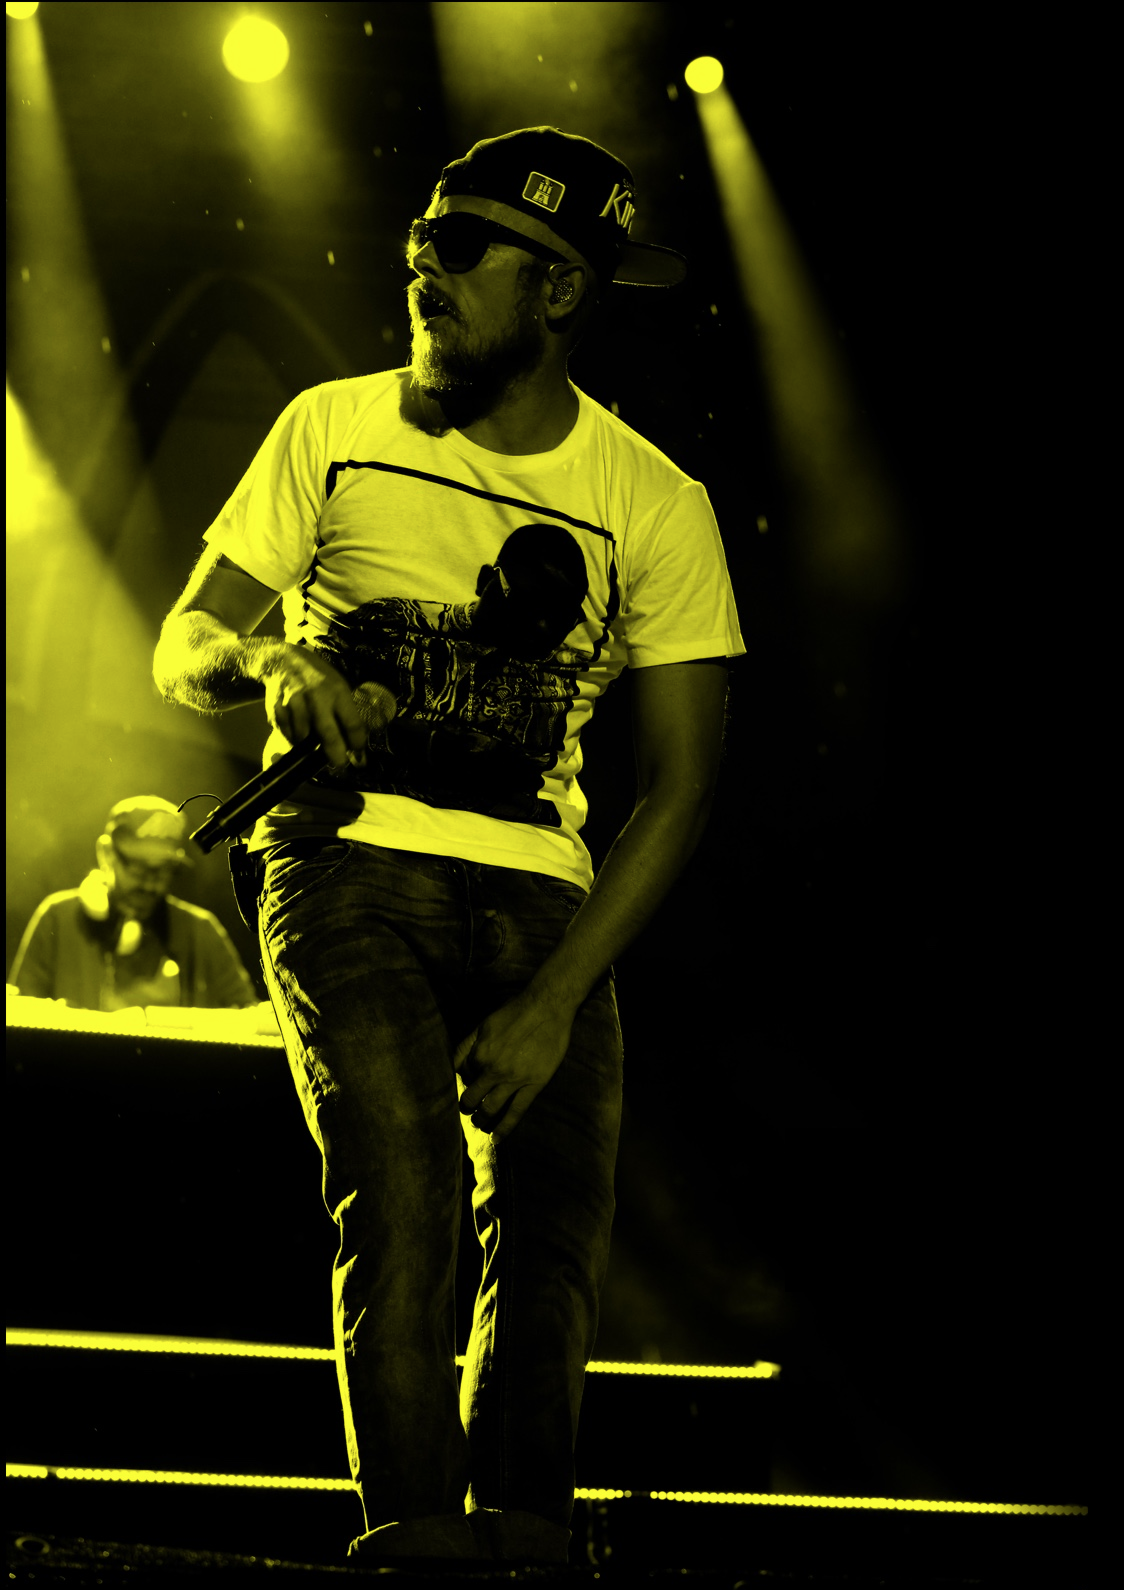
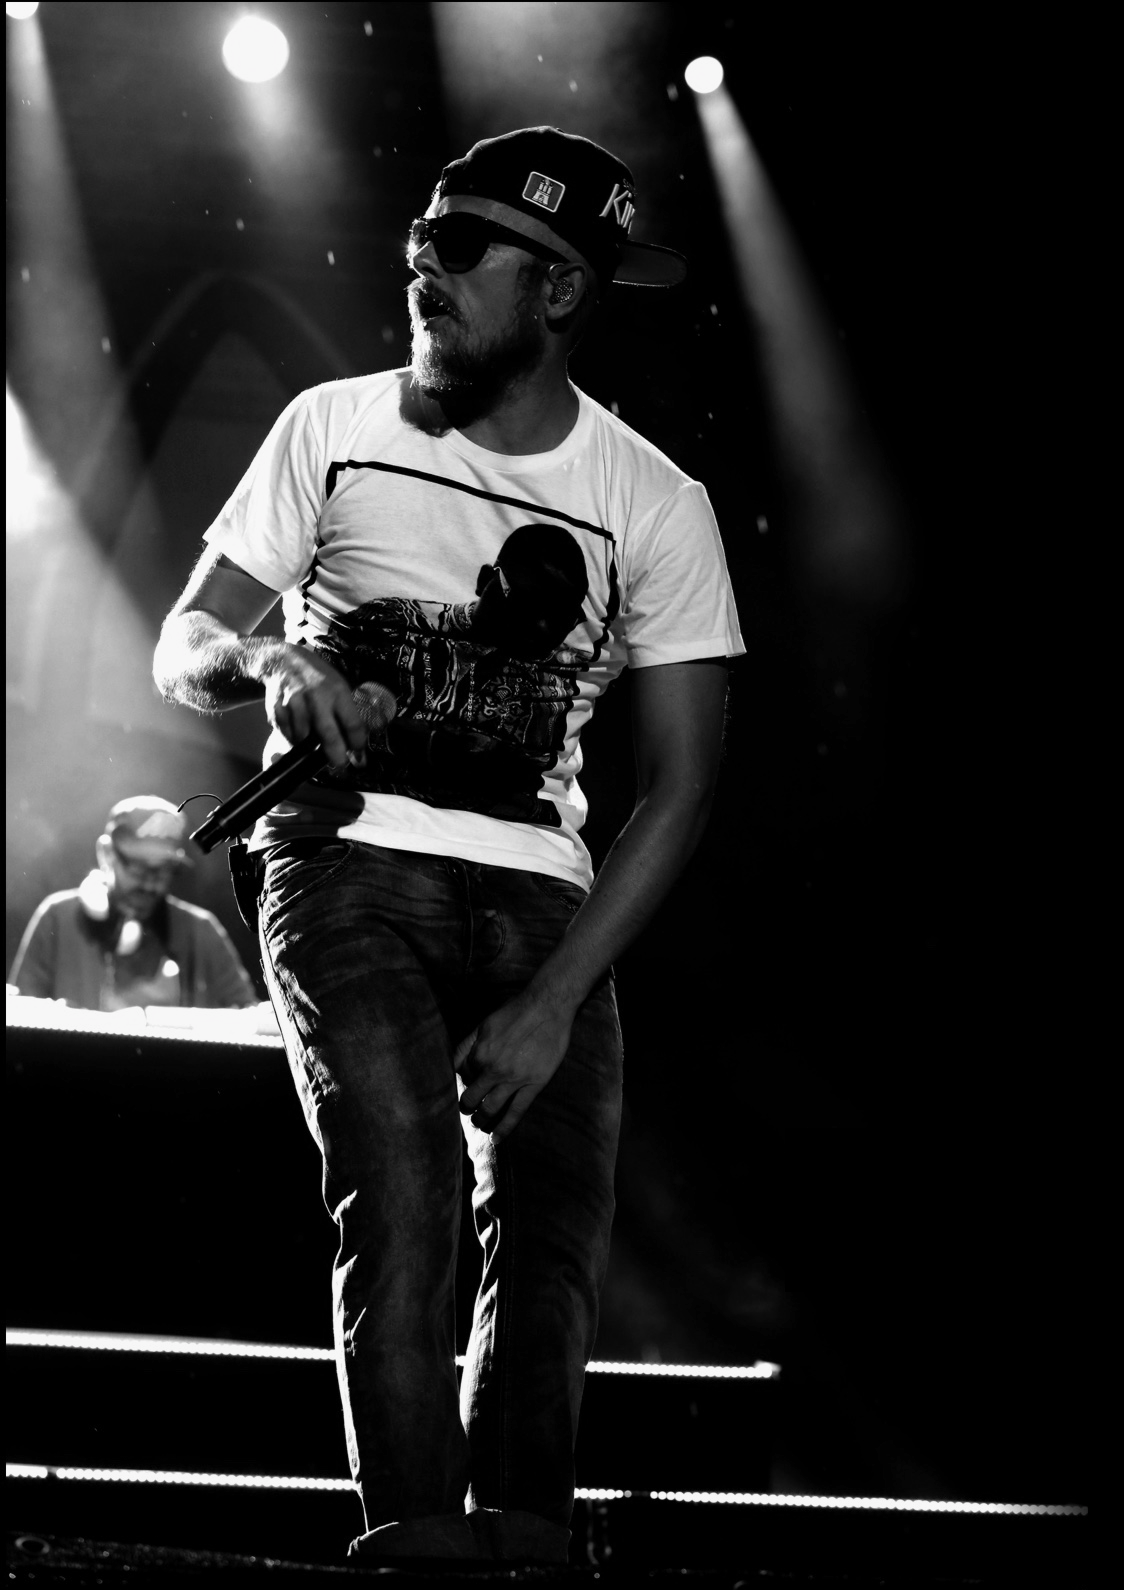
adds rider panels to global components. uses them also in lineup no schedule

diff --git a/www/views/lineup/lineup.scss b/www/views/lineup/lineup.scss
@@ -1,0 +1,37 @@
+.line-up-view {
+    ion-content {
+        .scroll {
+            avatar-panels {
+                > .container {
+                    > .row {
+                        > .col {
+                            > .container {
+                                > .row {
+                                    > .col {
+                                        max-height: 400px;
+                                        border: 8px solid;
+                                        overflow-y: hidden;
+                                        padding: 0;
+
+                                        img {
+                                            border: none;
+                                            filter: grayscale(100%);
+                                            min-height: 400px;
+                                        }
+                                    }
+                                }
+
+                                .blue-container {
+                                        width: 14rem;
+                                        bottom: 3.5rem;
+                                    span {
+                                    }
+                                }
+                            }
+                        }
+                    }
+                }
+            }
+        }
+    }
+}

diff --git a/www/views/lineup/Controller.lineup.view.js b/www/views/lineup/Controller.lineup.view.js
@@ -9,5 +9,38 @@
 
     function LineupCtrl($log, $state, $rootScope) {
         var cc = this;
+
+        cc.avatars = [
+            {
+                name: 'Biffy Clyro',
+                ref: 'clyro',
+                image: '../img/clyro.jpg'
+            },
+            {
+                name: 'Beginner',
+                ref: 'beginner',
+                image: '../img/beginner.png'
+            },
+            {
+                name: 'Bilderbuch',
+                ref: 'bilderbuch',
+                image: '../img/bilderbuch.jpg'
+            },
+            {
+                name: 'The Naked & Famous',
+                ref: 'the-naked-and-famous',
+                image: '../img/the-naked-and-famous.jpg'
+            },
+            {
+                name: 'Funf Sterne Deluxe',
+                ref: 'funf-sterne-deluxe',
+                image: '../img/funf-sterne-deluxe.jpg'
+            },
+            {
+                name: 'Lucky Chops',
+                ref: 'lucky-chops',
+                image: '../img/lucky-chops.jpg'
+            }
+        ]
     }
 })();

diff --git a/www/views/rider/index/Controller.rider-index.view.js b/www/views/rider/index/Controller.rider-index.view.js
@@ -9,5 +9,38 @@
 
     function RiderIndexCtrl($log, $state, $rootScope) {
         var cc = this;
+
+        cc.riders = [
+            {
+                name: 'Sven Thorgren',
+                ref: 'sthorgren',
+                image: '../img/Sven-Thorgren.jpg'
+            },
+            {
+                name: 'Antoine Truchon',
+                ref: 'atruchon',
+                image: '../img/Antoine-Truchon.jpg'
+            },
+            {
+                name: 'Max Parrot',
+                ref: 'mparrot',
+                image: '../img/Max-Parrot.jpg'
+            },
+            {
+                name: 'Keita Inamura',
+                ref: 'kinamura',
+                image: '../img/Keita-Inamura.jpg'
+            },
+            {
+                name: 'Billy Morgan',
+                ref: 'bmorgan',
+                image: '../img/Billy-Morgan.jpg'
+            },
+            {
+                name: 'Torgeir Bergrem',
+                ref: 'tbergrem',
+                image: '../img/Torgeir-Bergrem.jpg'
+            }
+        ]
     }
 })();

diff --git a/www/views/artist/Module.artist.view.js b/www/views/artist/Module.artist.view.js
@@ -1,11 +1,11 @@
-(function() {
+(function () {
     'use strict';
     var dir = "views/artist/"
     angular.module('Artist.view.module', ['Services'])
-        .config(function($stateProvider, $urlRouterProvider) {
+        .config(function ($stateProvider, $urlRouterProvider) {
             $stateProvider
                 .state('app.artist', {
-                    url: '/artist/:artist/',
+                    url: '/artist/:avatar',
                     views: {
                         'content': {
                             templateUrl: dir + 'artist.view.html',
@@ -14,13 +14,13 @@
                         }
                     },
                     params: {
-                        artist: { value: 'Beginner' }
+                        avatar: { value: 'Beginner' }
                     }
                 })
 
         })
 
 
-        .run(function($log) {
+        .run(function ($log) {
         });
 })();

diff --git a/www/views/global-components/avatar-panels/avatar-panels.html b/www/views/global-components/avatar-panels/avatar-panels.html
@@ -1,14 +1,14 @@
 <div class="container">
     <div class="row">
-        <div ng-repeat="rider in cc.riderPanelsContent" ng-click="cc.stateChange('app.rider.details', rider.ref)" class="col">
+        <div ng-repeat="avatar in cc.avatars" ng-click="cc.stateChange(cc.ref, avatar.ref)" class="col">
             <div class="container">
                 <div class="row">
                     <div class="col">
-                        <img ng-src="{{rider.image}}" alt="">
+                        <img ng-src="{{avatar.image}}" alt="">
                     </div>
                 </div>
                 <div class="blue-container">
-                    <span>{{rider.name}}</span>
+                    <span>{{avatar.name}}</span>
                 </div>
             </div>
         </div>

diff --git a/www/views/global-components/avatar-panels/Component.avatar-panels.js b/www/views/global-components/avatar-panels/Component.avatar-panels.js
@@ -1,0 +1,28 @@
+(function () {
+    'use strict';
+    angular.module('Template')
+        .component('avatarPanels', {
+            bindings: {
+                avatars: '=',
+                ref: '@'
+            },
+            templateUrl: 'views/global-components/avatar-panels/avatar-panels.html',
+            controller: avatarPanelsCtrl,
+            controllerAs: 'cc'
+        })
+
+    avatarPanelsCtrl.$inject = ['$log', '$state'];
+
+    function avatarPanelsCtrl($log, $state) {
+        var cc = this;
+
+        cc.stateChange = stateChange;
+
+        function stateChange(state, val) {
+            $state.go(state, { avatar: val });
+        }
+
+        cc.$onInit = function () {
+        }
+    }
+})();

diff --git a/www/views/rider/Module.rider.view.js b/www/views/rider/Module.rider.view.js
@@ -26,7 +26,7 @@
                     },
                 })
                 .state('app.rider.details', {
-                    url: '/rider/:rider',
+                    url: '/rider/:avatar',
                     views: {
                         'rider': {
                             templateUrl: dir + 'details/rider-details.view.html',
@@ -35,7 +35,7 @@
                         }
                     },
                     params: {
-                        rider: { value: 'hahllo' }
+                        avatar: { value: 'hahllo' }
                     }
                 })
 

diff --git a/www/views/global-components/avatar-panels/avatar-panels.scss b/www/views/global-components/avatar-panels/avatar-panels.scss
@@ -1,4 +1,4 @@
-rider-panels {
+avatar-panels {
     > .container {
         color:red;
         > .row {
@@ -47,7 +47,7 @@ rider-panels {
 }
 
 @media(min-width: 1024px) {
-    rider-panels {
+    avatar-panels {
         > .container {
             > .row {
                 > .col {
@@ -65,7 +65,7 @@ rider-panels {
 }
 
 @media(min-width: 1440px) {
-    rider-panels {
+    avatar-panels {
         > .container {
             > .row {
                 > .col {

diff --git a/www/views/global-components/desktop-menu/desktop-menu.html b/www/views/global-components/desktop-menu/desktop-menu.html
@@ -11,8 +11,8 @@
 		<a ng-disabled="true" ng-class="{'disabled' : true}">RIDERS + RANKINGS</a>
 	</div>
 	<div class="col anchor-pad">
-		<a href="https://airandstyle.frontgatetickets.com/">TICKETS</a>
-		<!--<a ui-sref="app.ticket">TICKETS</a>-->
+		<!--<a href="https://airandstyle.frontgatetickets.com/">TICKETS</a>-->
+		<a ui-sref="app.ticket">TICKETS</a>
 	</div>
 	<div class="col anchor-pad">
 

diff --git a/www/views/lineup/lineup.view.html b/www/views/lineup/lineup.view.html
@@ -1,8 +1,7 @@
 <ion-view class="line-up-view">
     <ion-content delegate-handle="mainScroll" on-scroll="ac.getScroll()">
         <lineup-carousel></lineup-carousel>
-        <tour-music></tour-music>
-
+        <avatar-panels avatars="cc.avatars" ref="app.artist"></avatar-panels>
         <download-app></download-app>
         <branding></branding>
         <subscribe></subscribe>

diff --git a/www/views/rider/index/rider-index.view.html b/www/views/rider/index/rider-index.view.html
@@ -7,7 +7,7 @@
                 </div>
             </div>
         </div>
-        <rider-panels></rider-panels>
+        <avatar-panels avatars="cc.riders" ref="app.rider.details"></avatar-panels>
         <branding></branding>
         <subscribe></subscribe>
         <footer></footer>

diff --git a/www/views/rider/details/rider-bio/Component.rider-bio.js b/www/views/rider/details/rider-bio/Component.rider-bio.js
@@ -318,7 +318,7 @@
             ]
 
             cc.rider = cc.riderBioContent.filter(function (rider) {
-                return rider.ref == $stateParams.rider
+                return rider.ref == $stateParams.avatar
             })[0];
             console.log(cc.rider)
         }
